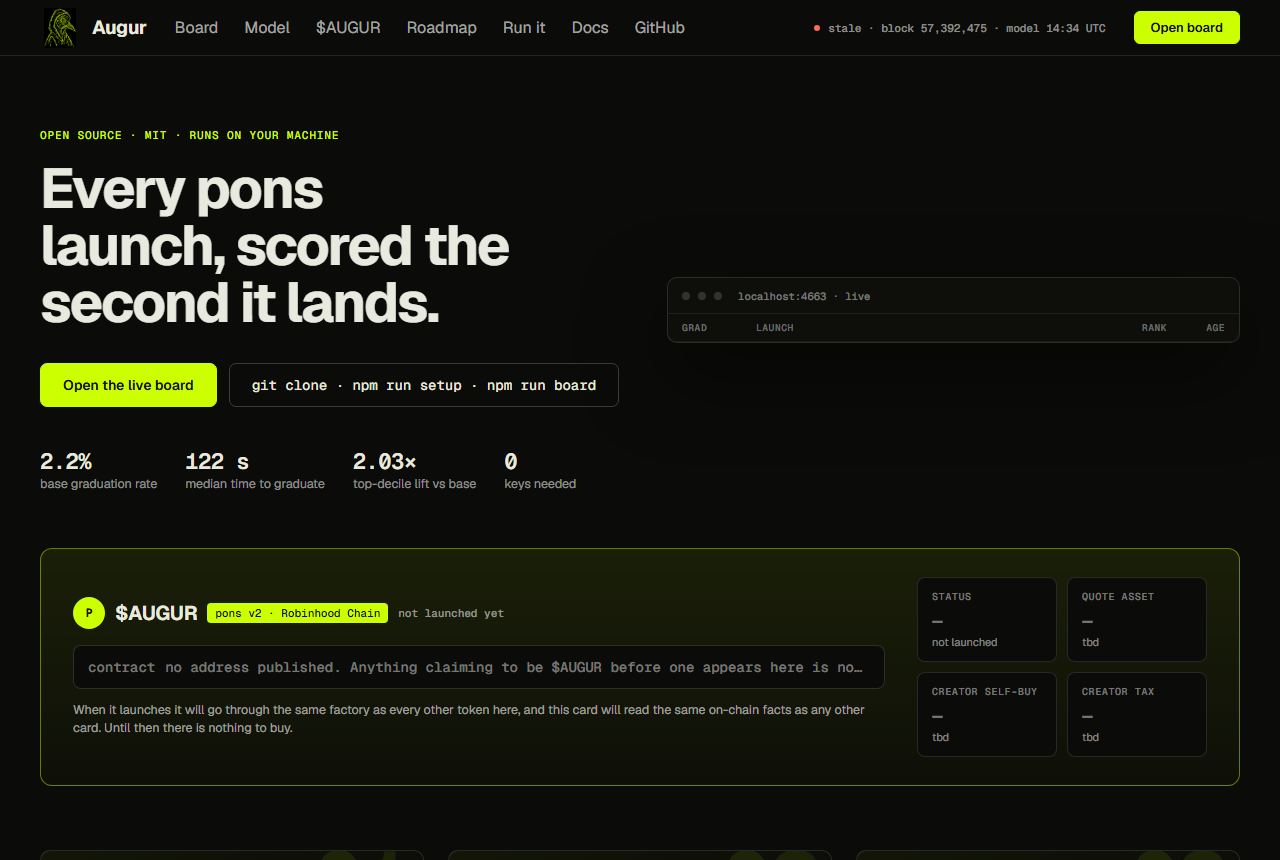
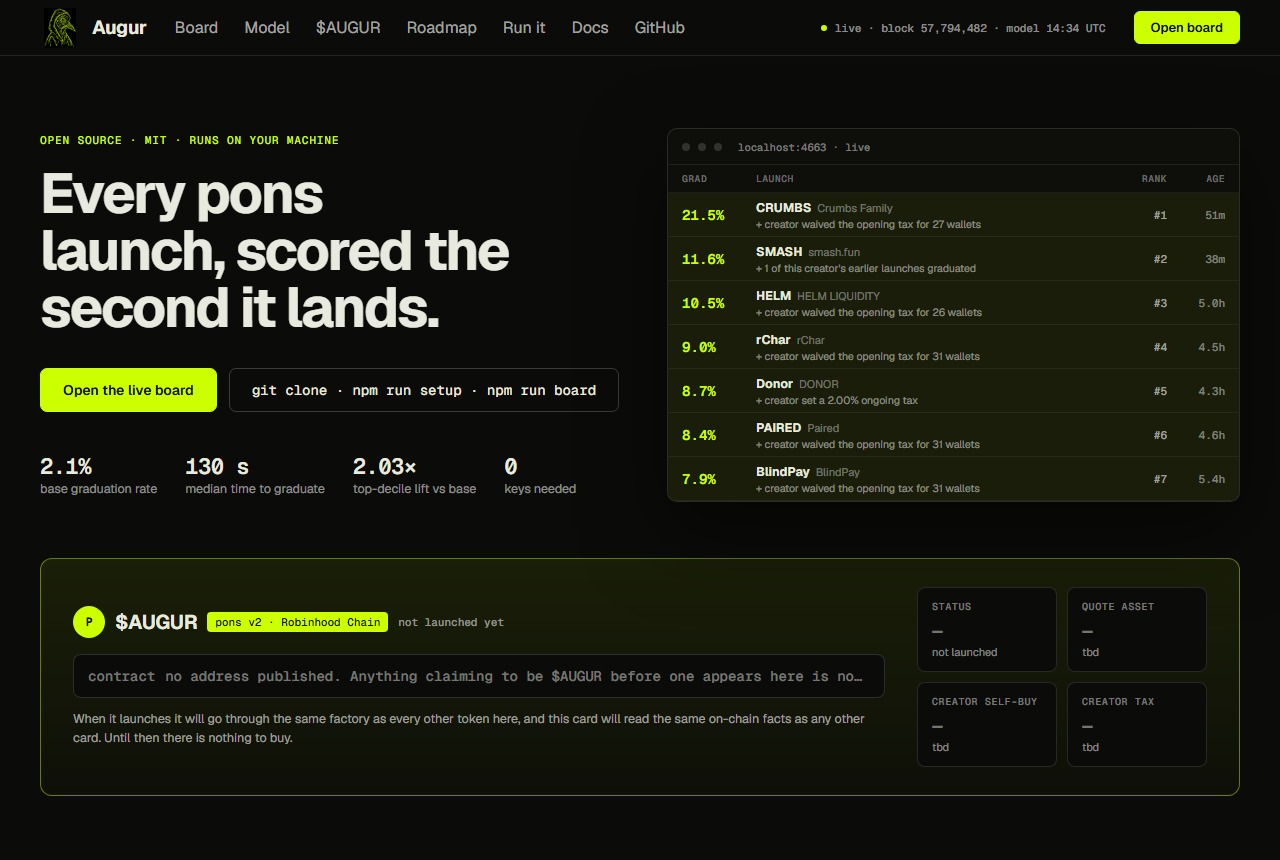
Retake every board shot on a live, calibrated board
Three of them were captured while ingest was down and showed the product broken:
an empty mini-board on the landing page, a red "the watcher has not reported for
629m" banner across the feed, and a card with nothing beside it. That is what
those images were of, so they are all replaced.

The scores changed too, and for a reason worth recording. The live correction
was not being applied: calibration.json was stamped for model 361ad1f2f0b9 while
8ddaf32dbaa7 was serving, and liveFor refuses to inherit a correction across
model eras, which is the rule doing its job. The board was therefore showing the
raw model, and the raw model is overconfident at the top: 73% against a 2.1% base
rate. `recalibrate --write` fitted the current era against its own 587 settled
claims — the model thought 2.18%, it was 2.04%, slope 0.510 — and the same launch
now reads 21.5%. Everything below it moved down with it.

That is the number the README's honest sections have to sit next to, so the shots
now show a calibrated board rather than one whose top row would have read 73%
three paragraphs under "two in a hundred reach the pool".

The terminal frame is retaken on the same calibration, and its caption follows:
WICK at 2.2%, 1018th of 11,284, with the twenty-three wallets its creator waived
the opening tax for called out in red.

diff --git a/README.md b/README.md
@@ -109,10 +109,10 @@ flowchart LR
 
 <img src="docs/img/term-watch.png" alt="Augur watch">
 
-**`#70 of 11,158`** is the useful half. On its own LEATHER's "8.2%" means little; "seventieth best
-of the last six hours" tells you whether to look now or never, and the `16` beside it is sixteen
-wallets the creator waived the opening tax for. Every launch on that screen was scored the second it
-landed and written to the prediction log before anyone knew how it ended.
+**`#1018 of 11,284`** is the useful half. On its own WICK's "2.2%" means little; "a thousandth best
+of the last six hours" tells you whether to look now or never, and the red `23` beside it is
+twenty-three wallets the creator waived the opening tax for. Every launch on that screen was scored
+the second it landed and written to the prediction log before anyone knew how it ended.
 
 Or the same feed on a local page, which is the same engine behind `npm run board`:
 
